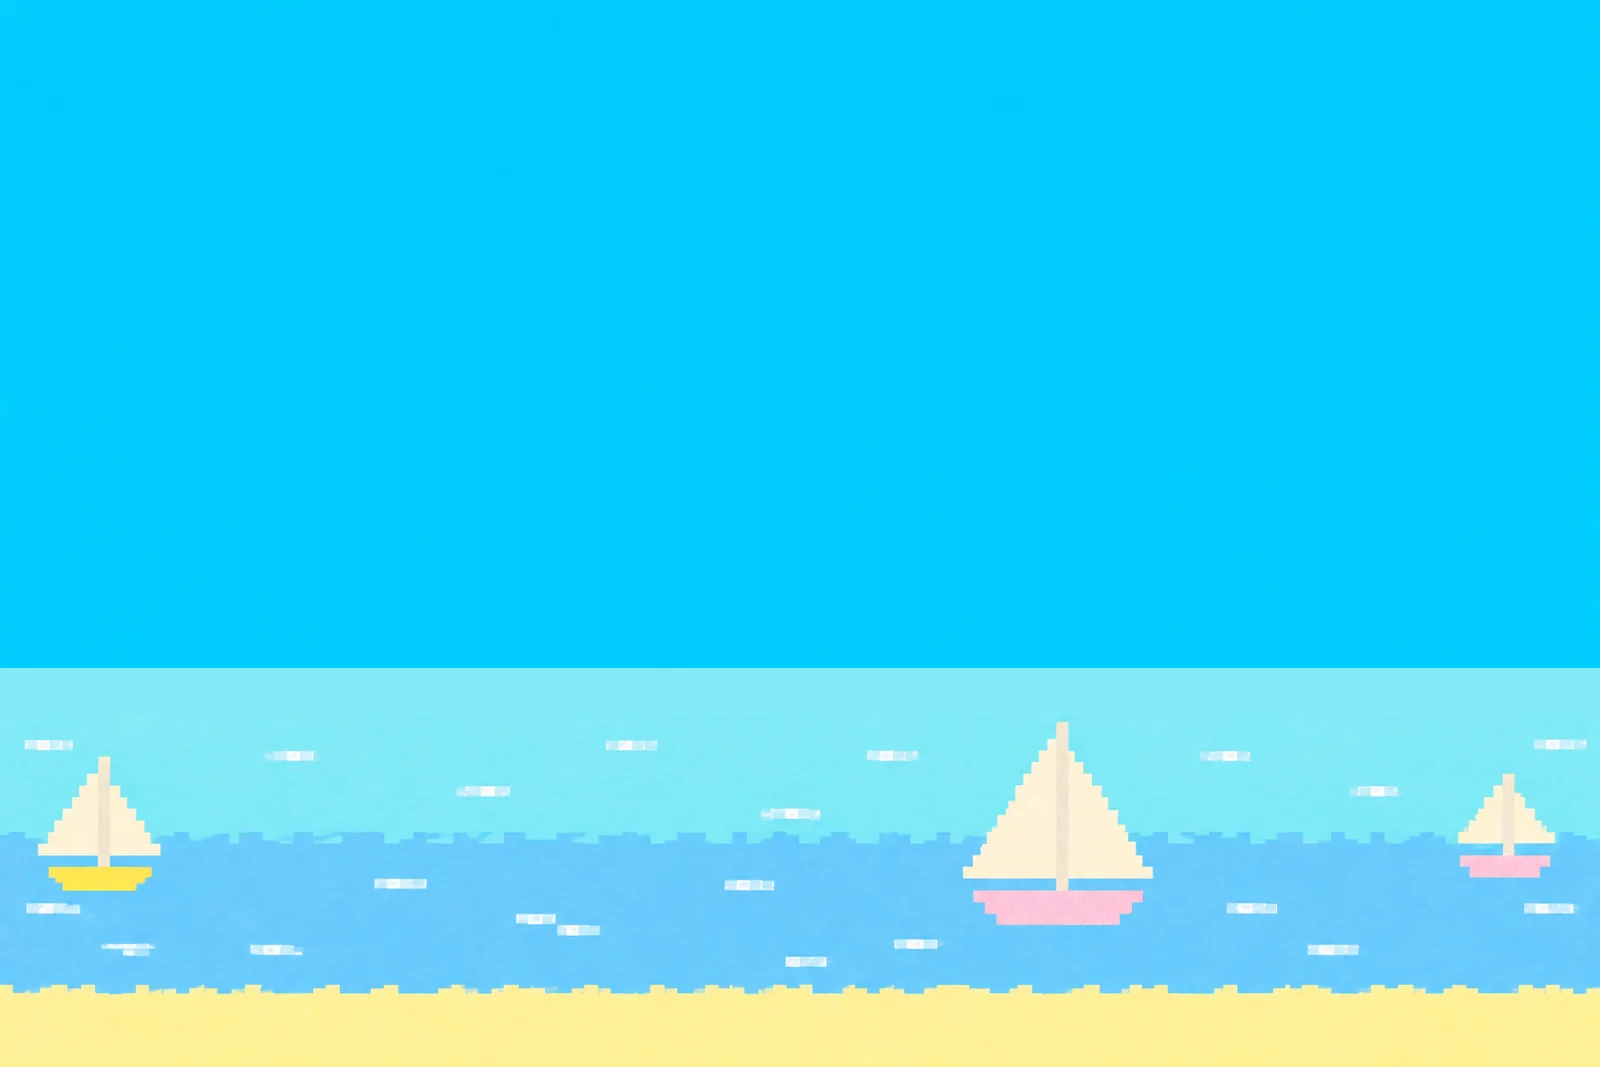
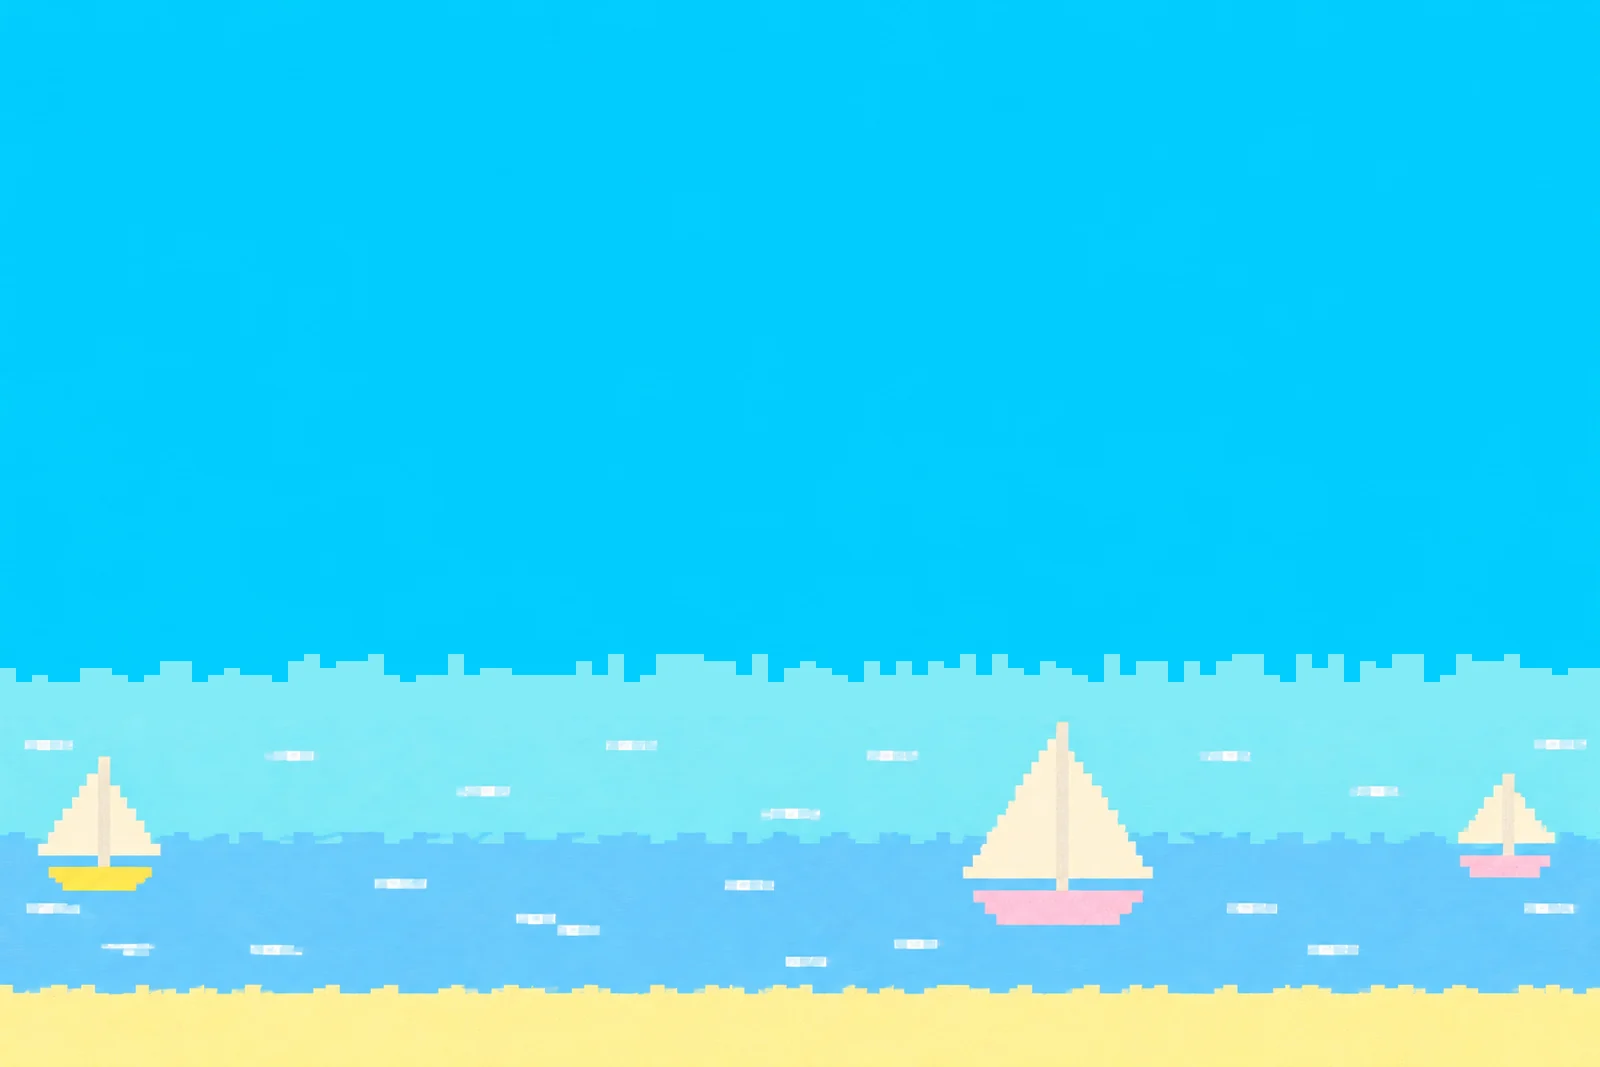
sites/dusk: pixel waves where the sea meets the sky
Claude-Session: https://claude.ai/code/session_01U69uFLMgJgS6MvZ1Fa28ZA

Changed region(s): [[0.0, 0.5876, 0.9375, 0.6495]]

diff --git a/public/landing/index.html b/public/landing/index.html
@@ -453,7 +453,7 @@ df["<i class="dd-s">total</i>"] = df["<i class="dd-s">price</i>"] + df["<i class
 
 <section class="end strip">
   <div class="end-box">
-    <img src="/art/end-sea.webp?v=28e4d6e6" alt="" width="1600" height="1067" loading="lazy">
+    <img src="/art/end-sea.webp?v=787016f7" alt="" width="1600" height="1067" loading="lazy">
     <svg class="sea-bots" viewBox="0 0 1600 1067" aria-hidden="true" focusable="false"><defs><clipPath id="sea-line"><rect x="-30" y="-120" width="160" height="192"/></clipPath><svg xmlns="http://www.w3.org/2000/svg" id="rest-squircle-w" width="100%" height="100%" viewBox="0 0 61.33 61.33"><defs><g id="rest-squircle-w-body"><path d="M15.91 56.21 16.31 53 17.18 49.99 17.66 48.84 19.03 46.02 20.83 43.51 27.75 35.82 29.91 33.62 32.36 31.73 35 30.13 36.1 29.52 38.83 28.17 41.63 27.02 44.45 26.01 47.26 25.12 50.07 24.32 52.85 23.56 55.62 22.82 58.39 22.09 61.19 21.37 64.05 20.67 66.98 20.04 70.01 19.49 73.15 19.07 76.41 18.84 79.76 18.84 83.2 19.16 86.67 19.84 90.11 20.93 90.63 21.14 93.82 22.6 96.86 24.45 99.7 26.67 102.33 29.17 104.72 31.9 106.89 34.78 108.85 37.74 110.63 40.74 112.27 43.74 112.52 44.21 114.06 47.22 115.51 50.2 116.9 53.15 118.27 56.08 119.64 59.01 121 61.97 122.34 64.98 123.64 68.05 124.87 71.2 125.98 74.43 126.93 77.74 127.65 81.1 128.06 84.47 128.09 87.79 127.69 91 126.82 94.01 126.33 95.16 124.97 97.98 123.17 100.49 116.25 108.18 114.09 110.38 111.64 112.27 109 113.87 107.9 114.48 105.16 115.83 102.37 116.98 99.55 117.99 96.74 118.88 93.93 119.68 91.15 120.44 88.38 121.18 85.61 121.91 82.81 122.63 79.95 123.33 77.02 123.96 73.99 124.51 70.85 124.93 67.59 125.16 64.24 125.16 60.8 124.84 57.33 124.16 53.89 123.06 53.37 122.86 50.18 121.4 47.14 119.55 44.3 117.34 41.67 114.83 39.28 112.1 37.11 109.22 35.15 106.26 33.37 103.26 31.73 100.26 31.48 99.79 29.94 96.78 28.49 93.8 27.1 90.85 25.73 87.92 24.36 84.99 23.01 82.03 21.66 79.02 20.36 75.95 19.14 72.8 18.02 69.57 17.07 66.26 16.35 62.9 15.94 59.53Z"></path></g><mask id="rest-squircle-w-inside" maskUnits="userSpaceOnUse" x="0" y="0" width="144" height="144"><use href="#rest-squircle-w-body" fill="#fff"></use></mask></defs><g transform="matrix(0.354167 0 0 0.354167 5.165 5.165)"><use href="#rest-squircle-w-body" fill="currentColor"></use><g mask="url(#rest-squircle-w-inside)"><path d="M66.19 81.92 65.89 81.28 65.6 80.64 65.3 80.01 65 79.37 64.7 78.73 64.41 78.09 64.11 77.45 63.81 76.81 63.51 76.17 63.21 75.54 62.92 74.9 62.62 74.26 62.32 73.62 62.02 72.98 61.73 72.34 61.43 71.7 61.13 71.07 60.83 70.43 60.53 69.79 60.24 69.15 59.71 67.43 59.74 65.75 60.3 64.26 61.36 63.13 62.8 62.45 64.49 62.3 66.26 62.69 67.93 63.57 69.34 64.88 70.36 66.47 70.66 67.1 70.96 67.74 71.26 68.38 71.55 69.02 71.85 69.66 72.15 70.3 72.45 70.94 72.74 71.57 73.04 72.21 73.34 72.85 73.64 73.49 73.94 74.13 74.23 74.77 74.53 75.41 74.83 76.04 75.13 76.68 75.42 77.32 75.72 77.96 76.02 78.6 76.32 79.24 76.84 80.96 76.82 82.64 76.25 84.12 75.19 85.26 73.75 85.94 72.07 86.09 70.3 85.7 68.63 84.81 67.21 83.51Z" fill="#fff"></path><path d="M90.03 75.6 89.74 74.96 89.44 74.32 89.14 73.68 88.84 73.05 88.54 72.41 88.25 71.77 87.95 71.13 87.65 70.49 87.35 69.85 87.06 69.21 86.76 68.58 86.46 67.94 86.16 67.3 85.86 66.66 85.57 66.02 85.27 65.38 84.97 64.74 84.67 64.11 84.38 63.47 84.08 62.83 83.55 61.11 83.58 59.42 84.14 57.94 85.2 56.81 86.64 56.13 88.33 55.98 90.1 56.36 91.77 57.25 93.18 58.55 94.2 60.14 94.5 60.78 94.8 61.42 95.1 62.06 95.39 62.7 95.69 63.34 95.99 63.98 96.29 64.61 96.59 65.25 96.88 65.89 97.18 66.53 97.48 67.17 97.78 67.81 98.07 68.44 98.37 69.08 98.67 69.72 98.97 70.36 99.27 71 99.56 71.64 99.86 72.28 100.16 72.91 100.68 74.64 100.66 76.32 100.09 77.8 99.04 78.94 97.59 79.61 95.91 79.77 94.14 79.38 92.47 78.49 91.05 77.19Z" fill="#fff"></path></g></g></svg></defs><g class="sb c-pink" transform="translate(300 770) scale(0.26)" clip-path="url(#sea-line)" data-body="blob" data-size="26"><g class="dip"><svg class="mk" x="-26.67" y="-26.67" width="153.33" height="153.33"><use href="#rest-blob-w"/></svg></g><rect class="foam" x="-14" y="64" width="128" height="8"/></g><g class="sb c-green" transform="translate(560 752) scale(0.24)" clip-path="url(#sea-line)" data-body="teardrop" data-size="24"><g class="dip"><svg class="mk" x="-26.67" y="-26.67" width="153.33" height="153.33"><use href="#rest-teardrop-w"/></svg></g><rect class="foam" x="-14" y="64" width="128" height="8"/></g><g class="sb c-purple" transform="translate(820 782) scale(0.28)" clip-path="url(#sea-line)" data-body="hex" data-size="28"><g class="dip"><svg class="mk" x="-26.67" y="-26.67" width="153.33" height="153.33"><use href="#rest-hex-w"/></svg></g><rect class="foam" x="-14" y="64" width="128" height="8"/></g><g class="sb c-yellow" transform="translate(1290 762) scale(0.26)" clip-path="url(#sea-line)" data-body="squircle" data-size="26"><g class="dip"><svg class="mk" x="-26.67" y="-26.67" width="153.33" height="153.33"><use href="#rest-squircle-w"/></svg></g><rect class="foam" x="-14" y="64" width="128" height="8"/></g><g class="sb c-blue" transform="translate(1400 800) scale(0.3)" clip-path="url(#sea-line)" data-body="clover" data-size="30"><g class="dip"><svg class="mk" x="-26.67" y="-26.67" width="153.33" height="153.33"><use href="#rest-clover-w"/></svg></g><rect class="foam" x="-14" y="64" width="128" height="8"/></g><g class="sb c-orange" transform="translate(680 822) scale(0.3)" clip-path="url(#sea-line)" data-body="heart" data-size="30"><g class="dip"><svg class="mk" x="-26.67" y="-26.67" width="153.33" height="153.33"><use href="#rest-heart-w"/></svg></g><rect class="foam" x="-14" y="64" width="128" height="8"/></g><g class="sb c-yellow" transform="translate(210 830) scale(0.32)" clip-path="url(#sea-line)" data-body="star" data-size="32"><g class="dip"><svg class="mk" x="-26.67" y="-26.67" width="153.33" height="153.33"><use href="#rest-star-w"/></svg></g><rect class="foam" x="-14" y="64" width="128" height="8"/></g><g class="sb c-blue" transform="translate(236 884) scale(0.44)" clip-path="url(#sea-line)" data-body="blob" data-size="44"><g class="dip"><svg class="mk" x="-26.67" y="-26.67" width="153.33" height="153.33"><use href="#rest-blob-w"/></svg></g><rect class="foam" x="-14" y="64" width="128" height="8"/></g><g class="sb c-yellow" transform="translate(480 900) scale(0.46)" clip-path="url(#sea-line)" data-body="teardrop" data-size="46"><g class="dip"><svg class="mk" x="-26.67" y="-26.67" width="153.33" height="153.33"><use href="#rest-teardrop-w"/></svg></g><rect class="foam" x="-14" y="64" width="128" height="8"/></g><g class="sb c-orange" transform="translate(748 880) scale(0.4)" clip-path="url(#sea-line)" data-body="hex" data-size="40"><g class="dip"><svg class="mk" x="-26.67" y="-26.67" width="153.33" height="153.33"><use href="#rest-hex-w"/></svg></g><rect class="foam" x="-14" y="64" width="128" height="8"/></g><g class="sb c-purple" transform="translate(900 916) scale(0.46)" clip-path="url(#sea-line)" data-body="clover" data-size="46"><g class="dip"><svg class="mk" x="-26.67" y="-26.67" width="153.33" height="153.33"><use href="#rest-clover-w"/></svg></g><rect class="foam" x="-14" y="64" width="128" height="8"/></g><g class="sb c-pink" transform="translate(1230 902) scale(0.42)" clip-path="url(#sea-line)" data-body="heart" data-size="42"><g class="dip"><svg class="mk" x="-26.67" y="-26.67" width="153.33" height="153.33"><use href="#rest-heart-w"/></svg></g><rect class="foam" x="-14" y="64" width="128" height="8"/></g><g class="sb c-green" transform="translate(1372 884) scale(0.38)" clip-path="url(#sea-line)" data-body="squircle" data-size="38"><g class="dip"><svg class="mk" x="-26.67" y="-26.67" width="153.33" height="153.33"><use href="#rest-squircle-w"/></svg></g><rect class="foam" x="-14" y="64" width="128" height="8"/></g><g class="sb c-green" transform="translate(1060 930) scale(0.4)" clip-path="url(#sea-line)" data-body="star" data-size="40"><g class="dip"><svg class="mk" x="-26.67" y="-26.67" width="153.33" height="153.33"><use href="#rest-star-w"/></svg></g><rect class="foam" x="-14" y="64" width="128" height="8"/></g></svg>
   </div>
   <i class="end-sky"></i>

diff --git a/art-src/final/prep.py b/art-src/final/prep.py
@@ -46,3 +46,6 @@ d.save(OUT + 'dissolve.png')
 print('every-meadow', save(rgb('end-meadow'), 'every-meadow', 1536))
 for n in ['d-laptop', 'd-monitor', 'd-phone-a', 'd-phone-b']:
     im = Image.open(n + '.png').convert('RGBA'); im = im.crop(im.getchannel('A').point(lambda a: 255 if a > 16 else 0).getbbox()); print(n, save(im, n, 640, 90))
+
+# the ending sea: the pale strip at the horizon becomes sea, and the sea's top edge gets stepped pixel waves
+# (re-run by hand: see the commit that added this note; it reads end-sea.png and writes end-sea.webp)
